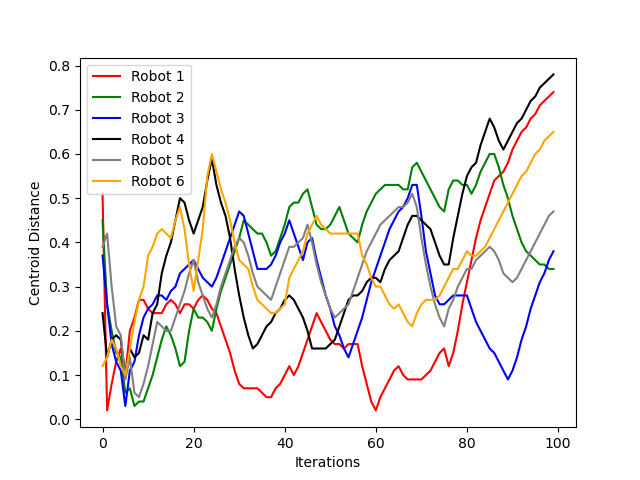
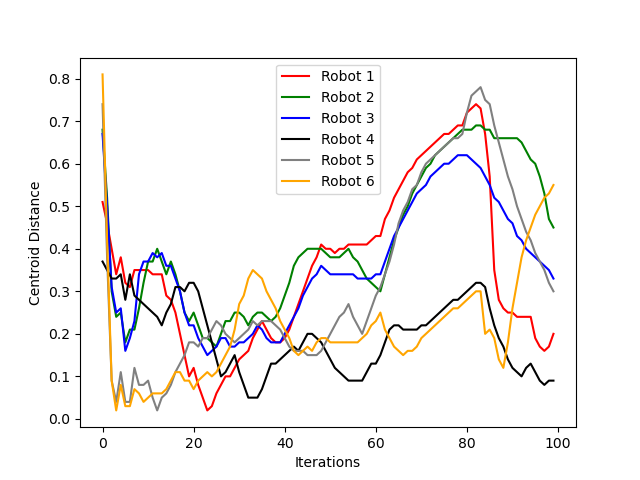
new condition with the initial locations being the charging stations

diff --git a/finalexecution.py b/finalexecution.py
@@ -32,10 +32,10 @@ recharger6_point = patches.Circle((0.5, 0), radius=0.03, color=charger_colors[4]
 recharger_points = [recharger1_point, recharger2_point, recharger3_point, recharger4_point, recharger5_point]
 
 # Battery threshold
-battery_threshold = 0.4  # Below 40%
+battery_threshold = 4.0  # Below 40%
 
 idle_consumption_rate = 0.01
-idle_consumption_rate = 0.15
+moving_consumption_rate = 0.15
 
 # Assign charging points to robots
 robot_charging_points = [recharger1_point, recharger2_point, recharger3_point, recharger4_point, recharger5_point, recharger6_point]
@@ -53,8 +53,11 @@ def find_nearest_charging_station(robot_position, charging_points):
 
 
 def executeIPP_py(N=4, resolution=0.1, number_of_iterations=20, show_fig_flag=True, save_fig_flag=False):
-    battery_levels = np.full(N,1.0)
-    # battery_levels[2:4] = 0.5
+    battery_levels = np.full(N,10.0)
+    # battery_levels[2:4] = 5.0
+    alpha = 0.1  # Energy decay factor
+    beta = 0.5  # Distance decay factor
+
     rng = np.random.default_rng(12345)
     distance_to_centroid_threshold= -0.1
     file_path = ""
@@ -62,7 +65,11 @@ def executeIPP_py(N=4, resolution=0.1, number_of_iterations=20, show_fig_flag=Tr
     x_min, x_max = -1, 1
     y_min, y_max = -1, 1    
     # generate random initial values
-    current_robotspositions =  rng.uniform(x_min, x_max, size=(2, N))
+    # current_robotspositions =  rng.uniform(x_min, x_max, size=(2, N))
+    current_robotspositions = np.array([
+    [recharger1_point.center[0], recharger2_point.center[0], recharger3_point.center[0], recharger4_point.center[0], recharger5_point.center[0], recharger6_point.center[0]],
+    [recharger1_point.center[1], recharger2_point.center[1], recharger3_point.center[1], recharger4_point.center[1], recharger5_point.center[1], recharger6_point.center[1]]
+])
     # to show interactive plotting
     plt.ion()
     main_fig = plt.figure()
@@ -107,7 +114,7 @@ def executeIPP_py(N=4, resolution=0.1, number_of_iterations=20, show_fig_flag=Tr
     # generate 9 Gauusian distribution for ground_truth
     # Using Z_phi here to represent ground_truth (phi(q))
     # Number of Gaussian distributions
-    num_distributions = 3 # number of gaussian distributions in each robot's position 3 for trimodel
+    num_distributions = 1 # number of gaussian distributions in each robot's position 3 for trimodel
     # Variances for all distributions
     variances = np.ones(num_distributions) * 0.05  # Adjusted variance for visibility
     # Generate random means for both density functions
@@ -251,28 +258,32 @@ def executeIPP_py(N=4, resolution=0.1, number_of_iterations=20, show_fig_flag=Tr
         step_size = 1.0
         robotsPositions_diff = np.zeros((2, N))
         for robot in range(N):
-             # Find nearest charging station for the current robot
+            # Find nearest charging station for the current robot
             nearest_charging_station = find_nearest_charging_station(current_robotspositions[:2, robot], robot_charging_points)
 
             # Calculate distance to charging station
             dist_to_cs = np.linalg.norm(current_robotspositions[:2, robot] - nearest_charging_station)
 
+            # Calculate energy consumption for movement
+            distance_traveled = np.linalg.norm(robotsPositions_diff[:, robot])
+            energy_consumption = moving_consumption_rate * distance_traveled
+
+            # Apply energy decay for the robot's battery level
+            battery_levels[robot] -= energy_consumption + alpha * 1 + beta * distance_traveled
+            # Check if the robot is close enough to the charging station to recharge
+            if np.linalg.norm(current_robotspositions[:2, robot] - nearest_charging_station) < charging_threshold:
+                # Recharge the battery to 100%
+                battery_levels[robot] = 10.0
+            # Check if the battery level is below the threshold
             if battery_levels[robot] < battery_threshold:
                 # Move towards charging station gradually
-                if dist_to_cs < charging_threshold:
-                    battery_levels[robot] = 1.0
-                else:
-                    # Calculate the intermediate position between the current position and charging station
-                    charging_transition = current_robotspositions[:2, robot] + (nearest_charging_station - current_robotspositions[:2, robot]) * (1 / transition_iterations)
-                    robotsPositions_diff[:, robot] = step_size * (charging_transition - current_robotspositions[:2, robot])
+                charging_transition = current_robotspositions[:2, robot] + (nearest_charging_station - current_robotspositions[:2, robot]) * (1 / transition_iterations)
+                robotsPositions_diff[:, robot] = step_size * (charging_transition - current_robotspositions[:2, robot])
             else:
                 # Move towards sampling goal gradually
                 sampling_transition = current_robotspositions[:2, robot] + (sampling_goal[:, robot] - current_robotspositions[:2, robot]) * (1 / transition_iterations)
                 robotsPositions_diff[:, robot] = step_size * (sampling_transition - current_robotspositions[:2, robot])
 
-            # Consume battery for movement
-            distance_traveled = np.linalg.norm(robotsPositions_diff[:, robot])
-            battery_levels[robot] -= idle_consumption_rate * distance_traveled
             bar_plot[robot].set_height(battery_levels[robot])
             bar_plot[robot].set_color(battery_colors[robot] if battery_levels[robot] >= battery_threshold else 'red')
             plt.draw()
